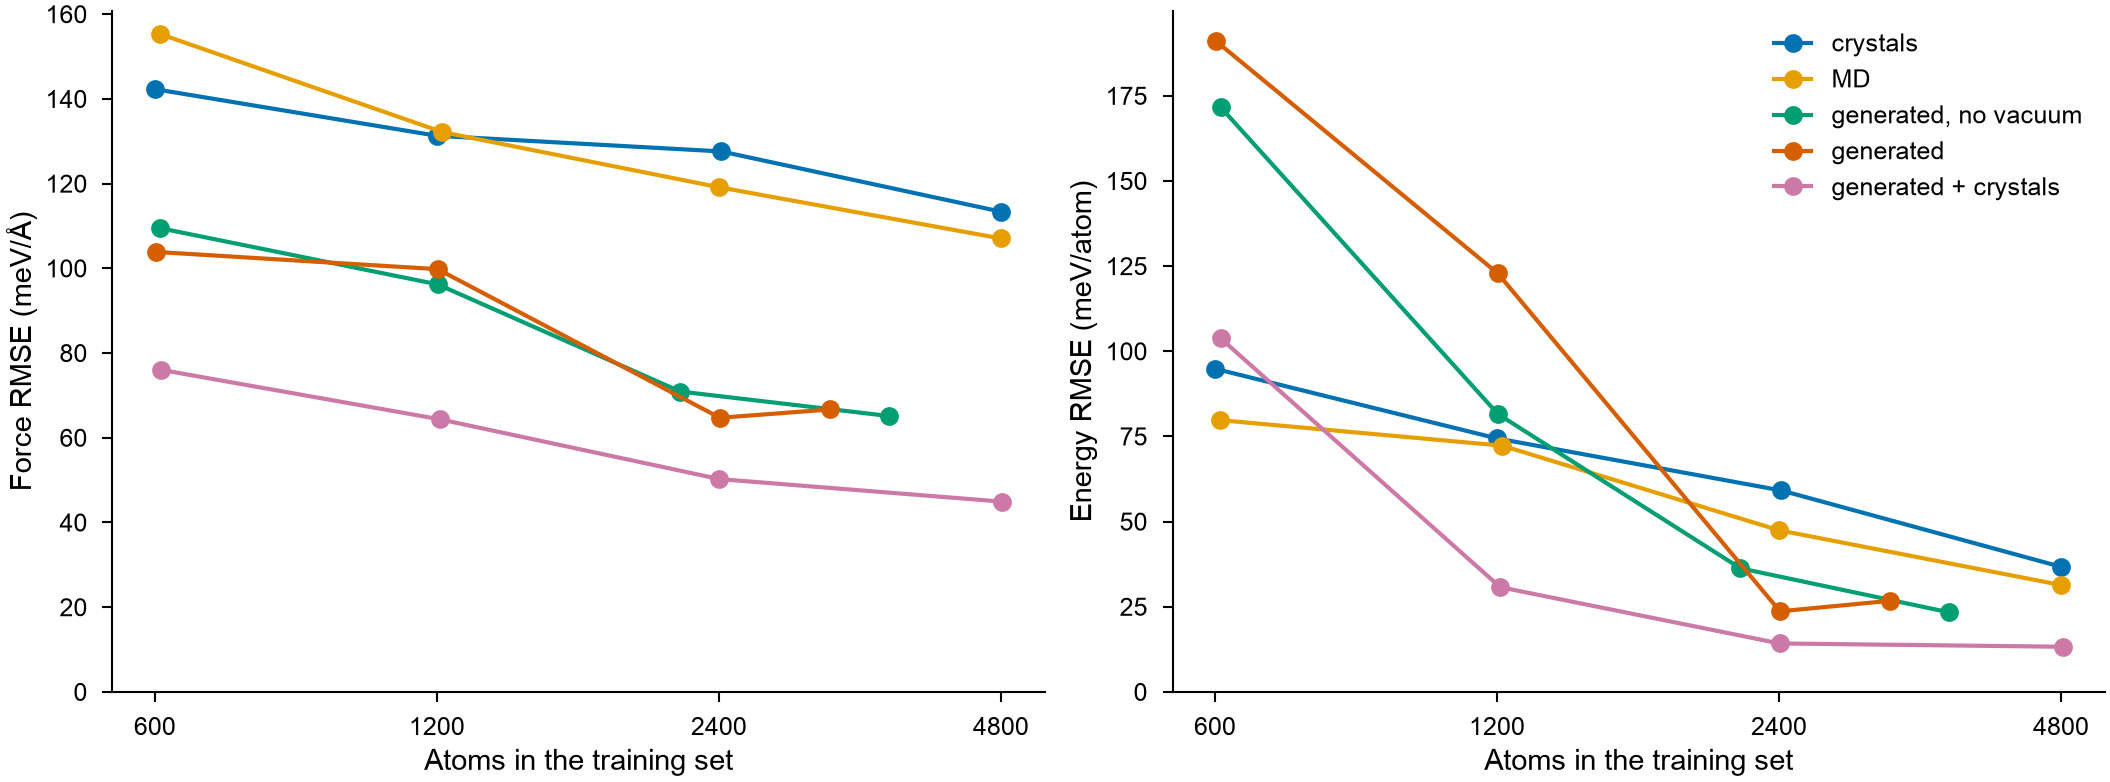
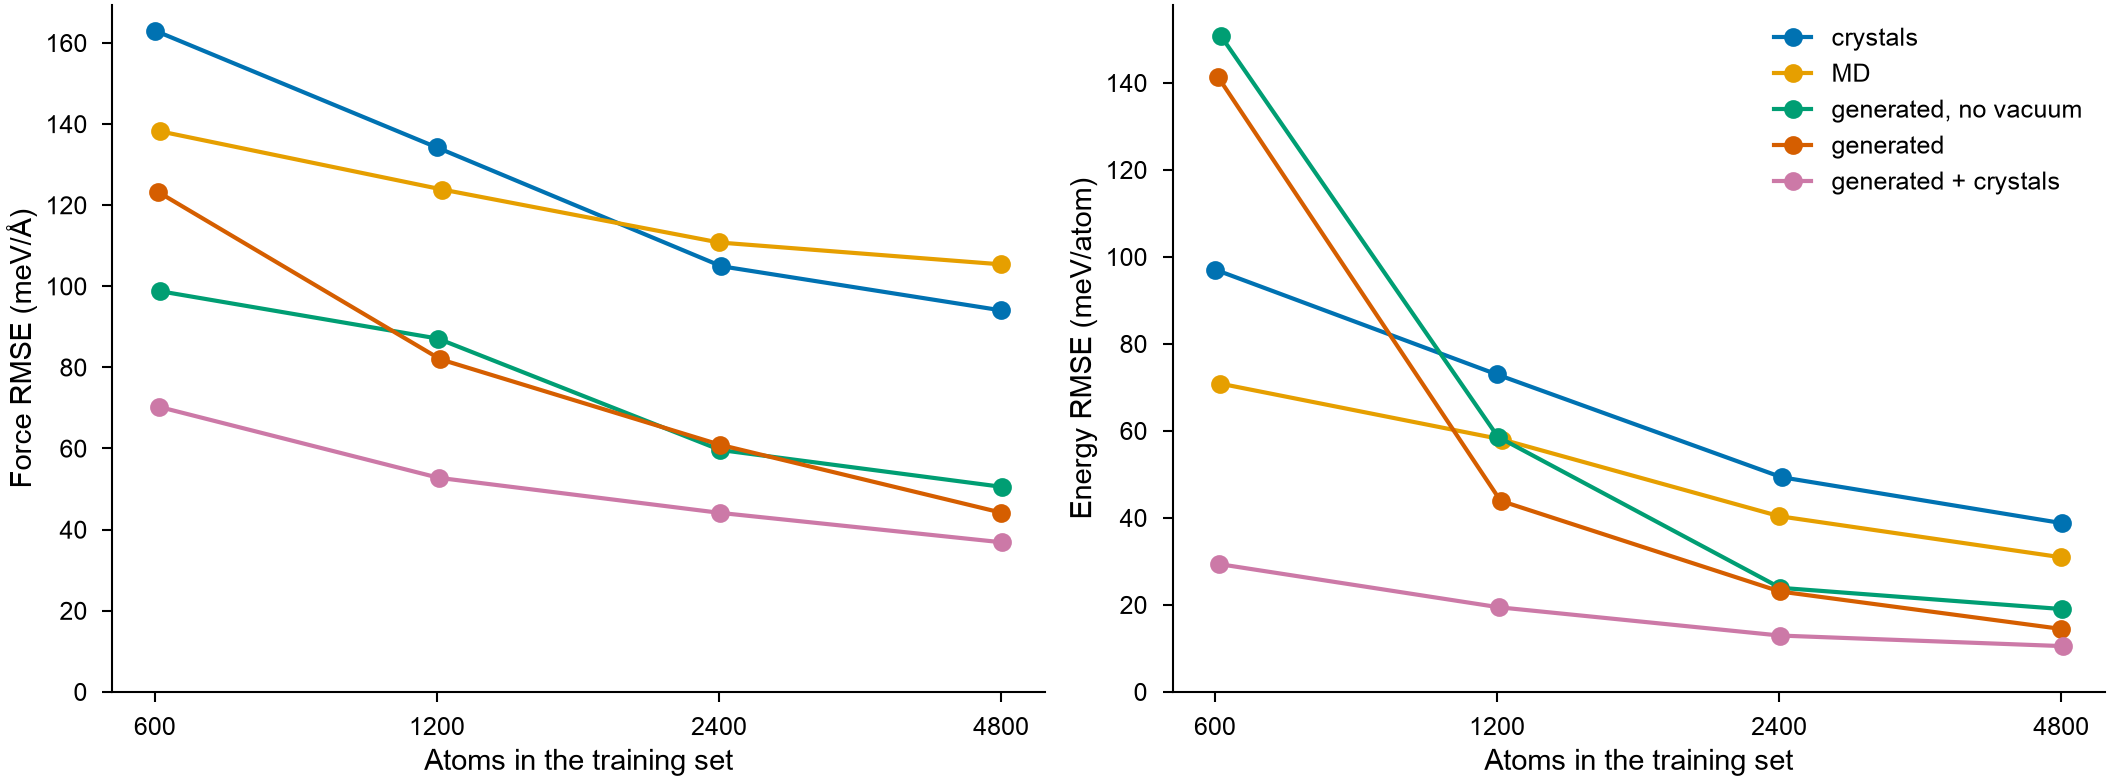
Example of generated training sets for aluminium with the results of its rerun: every set of 4800 atoms, the generations of their default 1000 structures, MDAPY's own molecular dynamics, all frames in the training; how many structures, by the learning curves, the entropy and extend

diff --git a/docs/examples/aluminium-training.md b/docs/examples/aluminium-training.md
@@ -14,8 +14,9 @@ compared with it on structures none of them was trained on: crystals,
 defects, compressed and expanded solids, liquids, surfaces, grain
 boundaries and a cluster, and in molecular dynamics of their own.
 
-The page runs on one GPU with MatterSim and torchnep installed. It took an
-hour on an NVIDIA A100, half of it for the 120 trainings.
+The page runs on one GPU with MatterSim and torchnep installed. It took 70
+minutes on an NVIDIA H100: 40 for the generation, the dynamics and the
+labels, 25 for the 120 trainings.
 
 <!-- needs: mattersim -->
 <!-- needs: torchnep -->
@@ -209,24 +210,24 @@ for seed in SEEDS:
 ```text
 crystals              seed 0: 135 frames, 4804 atoms
 MD                    seed 0: 150 frames, 4800 atoms
-generated, no vacuum  seed 0: 591 frames, 4534 atoms
-generated             seed 0: 488 frames, 3523 atoms
-generated + crystals  seed 0: 490 frames, 4817 atoms
+generated, no vacuum  seed 0: 631 frames, 4800 atoms
+generated             seed 0: 730 frames, 4809 atoms
+generated + crystals  seed 0: 520 frames, 4820 atoms
 crystals              seed 1: 135 frames, 4804 atoms
 MD                    seed 1: 150 frames, 4800 atoms
-generated, no vacuum  seed 1: 238 frames, 1736 atoms
-generated             seed 1: 337 frames, 2789 atoms
-generated + crystals  seed 1: 394 frames, 4809 atoms
+generated, no vacuum  seed 1: 689 frames, 4804 atoms
+generated             seed 1: 686 frames, 4800 atoms
+generated + crystals  seed 1: 478 frames, 4807 atoms
 crystals              seed 2: 135 frames, 4804 atoms
 MD                    seed 2: 150 frames, 4800 atoms
-generated, no vacuum  seed 2: 608 frames, 4662 atoms
-generated             seed 2: 418 frames, 3151 atoms
-generated + crystals  seed 2: 465 frames, 4831 atoms
+generated, no vacuum  seed 2: 624 frames, 4814 atoms
+generated             seed 2: 713 frames, 4800 atoms
+generated + crystals  seed 2: 497 frames, 4822 atoms
 ```
 
-*The crystals and MD sets hold 4800 atoms in 135 and 150 frames. The
-generated ones stop by themselves, after 240 to 610 structures of 7 to 8
-atoms on average, 1700 to 4700 atoms.*
+*Every set holds 4800 atoms: the crystals in 135 frames, MD in 150, the
+generated sets in 620 to 730 small cells of 7 to 8 atoms on average, the first of
+the 1000 structures of each generation.*
 
 ## Test structures
 
@@ -397,22 +398,21 @@ for name in NAMES:
 ```text
 forces (meV/Å) | energies (meV/atom)
                         equilibrium  interstitial       extreme    interfaces       cluster
-crystals                  18 |    3    607 |   19     88 |   36     78 |   14    341 |  319
-MD                        12 |    3    703 |   26     87 |   52     56 |    3    267 |  209
-generated, no vacuum      43 |   18     50 |   15     51 |   17     74 |   11    213 |  131
-generated                 46 |   25     49 |   33     62 |   27     83 |   24    140 |   39
-generated + crystals      20 |   12     31 |   13     40 |    9     68 |   12    112 |   41
+crystals                  14 |    2    569 |   22     71 |   43     43 |   13    317 |  328
+MD                        13 |    4    756 |   27     97 |   49     24 |    3    276 |  211
+generated, no vacuum      30 |   14     40 |   17     46 |   13     47 |   12    198 |   98
+generated                 29 |   15     35 |   18     48 |    7     48 |   16    100 |   34
+generated + crystals      20 |   10     35 |   10     39 |    6     39 |   11    107 |   29
 ```
 
 *The models of perturbed crystals and of MD are best near equilibrium, and
 those of MD on surfaces too, where its liquid snapshots give atoms with few
-neighbors; far from what they hold they fail: an interstitial atom (0.6 to 0.7 eV/Å),
-half the volume of the crystal and the cluster. Generated structures cover
-all of these. Their slabs and clusters, the default, lower the error of the
-cluster's energy from 131 to 39 meV/atom, but not those of flat surfaces:
-the thin slabs of small cells have no crystal under their surface atoms.
-With a third of crystals, generated structures are best in every group but
-equilibrium and interfaces.*
+neighbors; far from what they hold they fail: an interstitial atom (0.6 to
+0.8 eV/Å), half the volume of the crystal and the cluster. Generated
+structures cover all of these. Their slabs and clusters, the default, halve
+the error of the cluster's forces and divide that of its energy by three;
+flat surfaces gain nothing, (111) better and (100) worse. With a third of crystals, generated structures are
+the best or close to it in every group but equilibrium and interfaces.*
 
 The mean over the fifteen test sets, against the atoms of the training set:
 
@@ -448,10 +448,10 @@ with plot.style():
 ![Learning curves of the five training sets](images/aluminium-learning.png)
 
 *The mean errors over the fifteen test sets. Those of crystals and MD fall
-slowly, as more of the same adds little; those of generated sets fall fast
-until the generation stops by itself, their last points at the mean number
-of atoms of the three seeds. Generated structures with crystals are best at
-every size.*
+slowly, as more of the same adds little, to about 100 meV/Å at 4800 atoms;
+those of the generated sets faster, to 44 and 51. Generated
+structures with crystals are best at every size, 37 meV/Å and 11 meV/atom at
+4800 atoms, and still falling.*
 
 ## Properties
 
@@ -542,21 +542,21 @@ for name in NAMES:
 
 ```text
                              a (Å)    C11 (GPa)    C12 (GPa)    C44 (GPa)   E_vac (eV)  γ100 (J/m²)  γ111 (J/m²)    bcc (meV) 0.6 V0 (meV)
-teacher                      4.037      117.791       61.335       34.734        0.596        0.755        0.622       76.370     1582.911
-crystals                     0.002        8.394        1.655        2.972        0.150        0.119        0.111        4.045      136.376
-MD                           0.001        2.425        0.940        1.071        0.051        0.016        0.038        5.045      204.601
-generated, no vacuum         0.030       12.322        6.265        3.629        0.045        0.023        0.020       24.086      185.062
-generated                    0.031       16.315       11.432        3.477        0.104        0.061        0.049       22.053      191.569
-generated + crystals         0.006        1.844        6.243        3.200        0.039        0.041        0.048       19.805       39.560
+teacher                      4.037      117.787       61.329       34.731        0.596        0.755        0.622       76.370     1582.912
+crystals                     0.002        6.280        0.759        2.514        0.097        0.129        0.089        3.021      165.185
+MD                           0.001        2.224        0.961        0.707        0.045        0.018        0.029        7.993      195.059
+generated, no vacuum         0.028       13.319       13.497        2.352        0.044        0.007        0.013       22.446      181.363
+generated                    0.010        6.509        8.799        4.226        0.041        0.036        0.050       31.695       65.631
+generated + crystals         0.006        4.177        5.657        4.831        0.030        0.036        0.059       22.666       38.881
 ```
 
 *Near equilibrium, the models of crystals and of MD give the lattice
-constant within 0.002 Å, the elastic constants within 1 to 8 GPa and bcc
-over fcc within 5 meV/atom; those of generated structures alone are off by
-0.03 Å, 4 to 16 GPa and over 20 meV/atom. With a third of crystals, generated
-structures come back to 0.006 Å and 2 to 6 GPa, with the best vacancy
-formation energy, and they alone give the energy of fcc at 0.6 V0, which the
-others miss by 140 to 200 meV/atom.*
+constant within 0.002 Å, the elastic constants within 6 GPa and bcc
+over fcc within 8 meV/atom; those of generated structures alone are off by
+0.01 to 0.03 Å, up to 13 GPa and over 20 meV/atom. With a third of crystals,
+generated structures come to 0.006 Å and 4 to 6 GPa, with the best vacancy
+formation energy, and give the energy of fcc at 0.6 V0 within 39 meV/atom,
+which crystals and MD miss by 165 and 195.*
 
 ## On their own
 
@@ -601,31 +601,33 @@ for name in NAMES:
 ```text
 forces (meV/Å) and the runs that failed
                          liquid 3000 K    0.5 V0 1500 K     1.6 V0 600 K
-crystals                      112  0/6        1478  2/6         149  0/6
-MD                             51  0/6        2191  6/6          91  0/6
-generated, no vacuum           82  0/6          92  0/6          84  0/6
-generated                      91  0/6         121  0/6          94  0/6
-generated + crystals           73  0/6          96  0/6          80  0/6
+crystals                       93  0/6        1499  2/6         127  0/6
+MD                             66  0/6        2156  6/6          80  0/6
+generated, no vacuum           77  0/6          81  0/6          70  0/6
+generated                      81  0/6         102  0/6          76  0/6
+generated + crystals           73  0/6          84  0/6          74  0/6
 ```
 
 *At half the volume of the crystal, the models of crystals and of MD fail:
 two atoms come within 1.5 Å in 2 and in all 6 of their runs, and where they
 still run their forces are off by 1.5 to 2.2 eV/Å. No model of a generated
-set fails, and their errors stay near those on the test structures. MD is
-best in the liquid, which it was trained on.*
+set fails, and their errors stay below 0.11 eV/Å. MD is best in the liquid,
+which it was trained on.*
 
 ## How many structures
 
-The generation stops by itself when 100 structures in a row add nothing to
-the set: here after 1700 to 4700 atoms. The errors of the generated sets fall
-fast up to there, while those of crystals and MD stay more than twice as
-large with all their 4800 atoms. For aluminium, a few thousand atoms of
-generated structures, with a third as many of perturbed crystals for the
-details of equilibrium, make a set that holds from compressed solids to
-liquids and clusters, in cells small enough for DFT to compute many of them:
-with k-points of a fixed density, a calculation costs less per atom the fewer
-atoms it has. Where a generation stops early, as one seed here at 1736 atoms,
-another one given it as `reference` continues it.
+Each generation made its default 1000 structures, some 7000 atoms, of which
+the sets took 4800. The errors of the generated sets still fall at 4800
+atoms, by 15 to 30 % in the last doubling, while those of crystals and MD
+fall by 5 to 10 %: more of the same adds little, more generated structures add new
+environments. For aluminium, some thousands of atoms of generated
+structures, with a third as many of perturbed crystals for the details of
+equilibrium, make a set that holds from compressed solids to liquids and
+clusters, in cells small enough for DFT to compute many of them: with
+k-points of a fixed density, a calculation costs less per atom the fewer
+atoms it has. The entropy of a generation tells how much more structures
+would add, and `extend` makes them where it ended; see
+[Generated structures](../user-guide/mlip/generation.md#how-many-structures).
 
 ## See also
 
